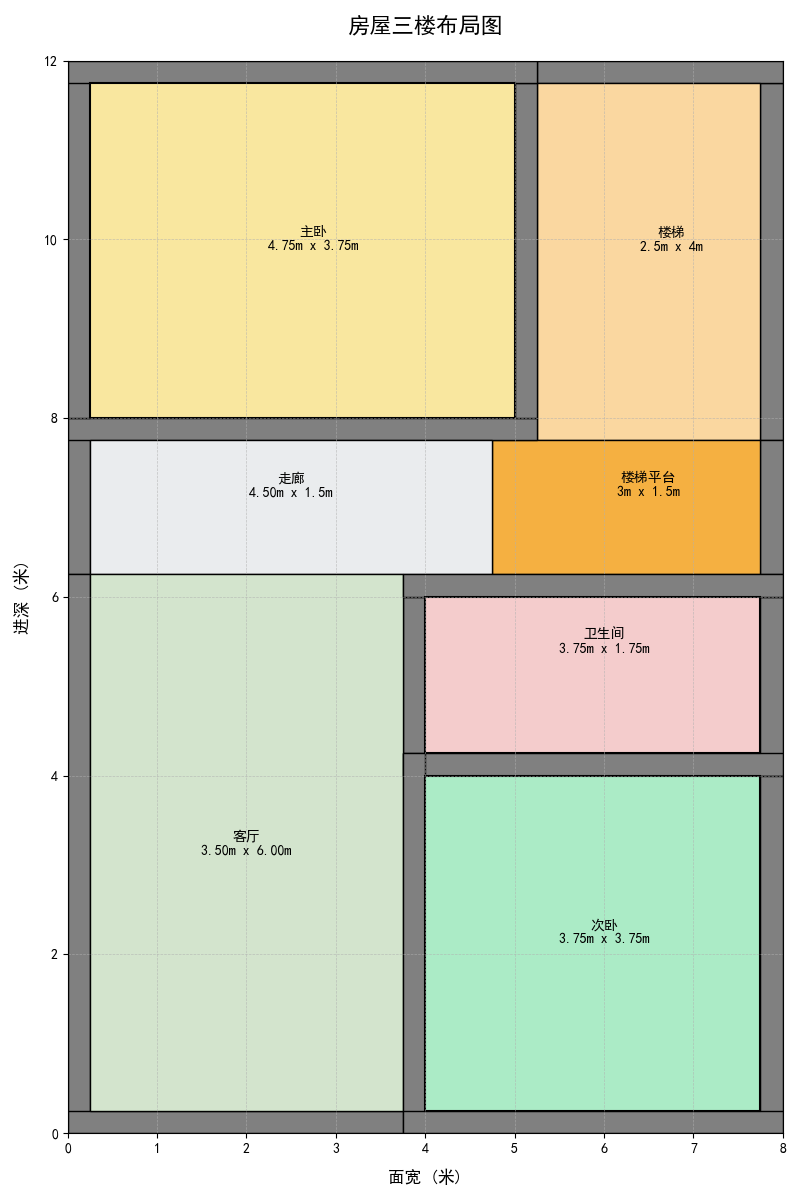
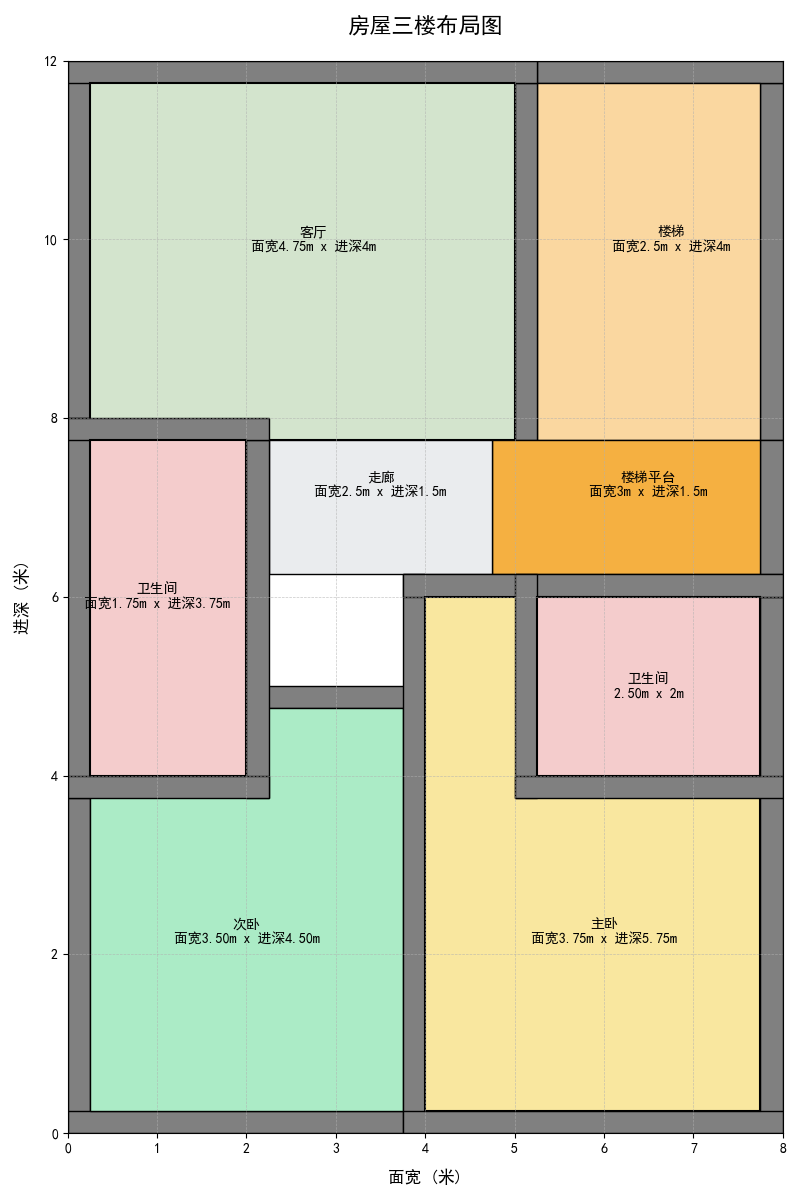
perf(floor_3nd.py): update

diff --git a/floor_3nd.py b/floor_3nd.py
@@ -88,7 +88,7 @@ ax.text(2.75, 10, f"客厅\n面宽{5.5 - 3 * wall_thickness}m x 进深{4}m",
         ha='center', va='center', fontsize=10, color='black', fontweight='bold')
 
 # 楼梯平台：宽3米，长1.5米
-draw_wall(5 - wall_thickness, 6.5 - wall_thickness * 2, 3 + wall_thickness, 1.5 + wall_thickness * 2,
+draw_wall(5 - 2 * wall_thickness, 6.5 - wall_thickness * 2, 3 + 2 * wall_thickness, 1.5 + wall_thickness * 2,
           exclude=['top', 'left'], adjacent=['top', 'left'])
 ax.add_patch(
     patches.Rectangle((5 - wall_thickness, 6.5 - wall_thickness), 3, 1.5,
@@ -96,9 +96,9 @@ ax.add_patch(
 ax.text(6.5, 7.25, "楼梯平台\n面宽3m x 进深1.5m", ha='center', va='center', fontsize=10, color='black')
 
 # 其他走廊：剩余部分
-ax.add_patch(patches.Rectangle((2 + wall_thickness, 6.5 - wall_thickness), 3, 1.5,
+ax.add_patch(patches.Rectangle((2 + wall_thickness, 6.5 - wall_thickness), 2.5, 1.5,
                                facecolor=colors['走廊'], edgecolor='black'))
-ax.text(3.5, 7.25, f"走廊\n面宽{3:.2f}m x 进深1.5m",
+ax.text(3.5, 7.25, f"走廊\n面宽{2.5}m x 进深1.5m",
         ha='center', va='center', fontsize=10, color='black')
 
 # 次卧：位于最前面的区域
@@ -106,15 +106,15 @@ draw_wall(0, 0, 4, 5, exclude=['right'])  # 排除顶部墙壁
 ax.add_patch(
     patches.Rectangle((wall_thickness, wall_thickness), 4 - 2 * wall_thickness, 5 - 2 * wall_thickness,
                       facecolor=colors['次卧'], edgecolor='black', label='客厅'))
-ax.text(2, 3.25, f"次卧\n面宽{4 - 2 * wall_thickness:.2f}m x 进深{5 - 2 * wall_thickness :.2f}m",
+ax.text(2, 2.25, f"次卧\n面宽{4 - 2 * wall_thickness:.2f}m x 进深{5 - 2 * wall_thickness :.2f}m",
         ha='center', va='center', fontsize=10, color='black', fontweight='bold')
 
 # 客厅卫生间：位于次卧上方
-draw_wall(0, 5 - wall_thickness, 2 + wall_thickness, 4 + wall_thickness)
+draw_wall(0, 4 - wall_thickness, 2 + wall_thickness, 4 + wall_thickness)
 ax.add_patch(
-    patches.Rectangle((wall_thickness, 5), 2 - wall_thickness, 4 - wall_thickness,
+    patches.Rectangle((wall_thickness, 4), 2 - wall_thickness, 4 - wall_thickness,
                       facecolor=colors['卫生间'], edgecolor='black', linewidth=1.5))
-ax.text(1, 7, f"卫生间\n面宽{2 - wall_thickness:.2f}m x 进深{4 - wall_thickness}m",
+ax.text(1, 6, f"卫生间\n面宽{2 - wall_thickness:.2f}m x 进深{4 - wall_thickness}m",
         ha='center', va='center', fontsize=10, color='black', fontweight='bold')
 
 # 主卧（右下角）
@@ -131,7 +131,7 @@ draw_wall(5, 4 - wall_thickness, 3, 2 + 2 * wall_thickness,
 ax.add_patch(
     patches.Rectangle((5 + wall_thickness, 4), 3 - 2 * wall_thickness, 2,
                       facecolor=colors['卫生间'], edgecolor='black', linewidth=1.5))
-ax.text(6.5, 5.5, f"卫生间\n{3 - 2 * wall_thickness:.2f}m x {2}m",
+ax.text(6.5, 5, f"卫生间\n{3 - 2 * wall_thickness:.2f}m x {2}m",
         ha='center', va='center', fontsize=10, color='black', fontweight='bold')
 
 # 显示坐标轴标签
